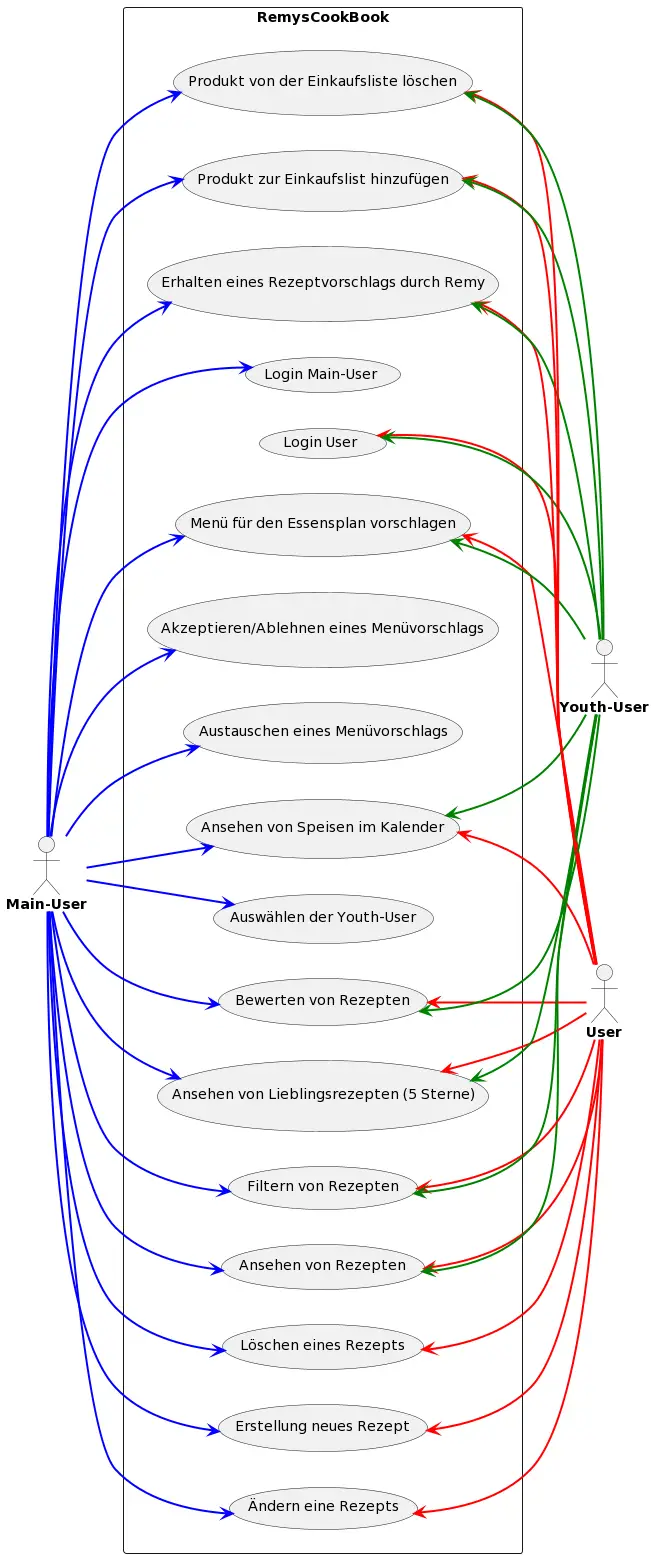
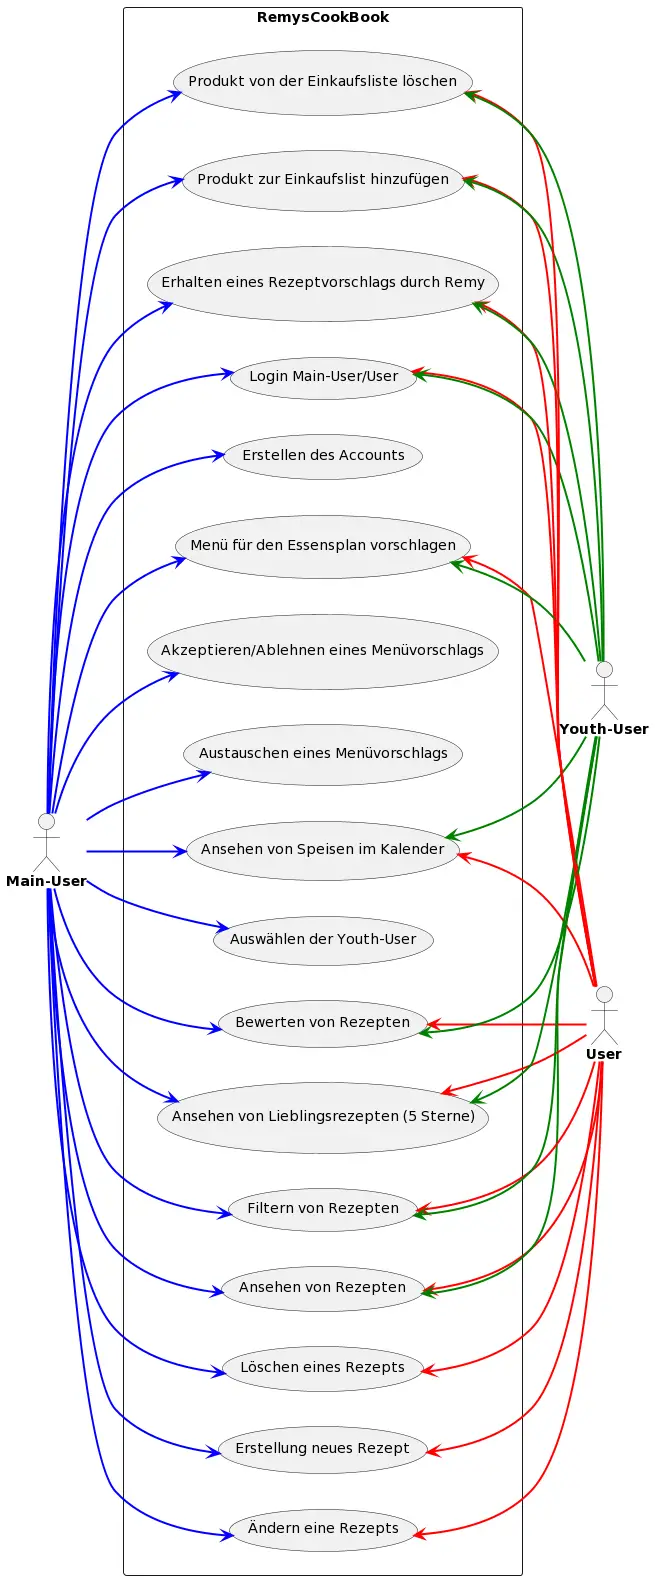
revised UCD, Zielsetzung, UC 1 & 2

diff --git a/README.md b/README.md
@@ -67,17 +67,30 @@ Die Anwendung enthält außerdem ein Maskottchen, das die Benutzer durch die App
 - **Youth-User:** 
   Er besitzt die generellen Rechte ausgenommen der Erstellung, das Ändern und Löschen eines Rezepts.
   
-### 2.2. Use Case Account-Erstellung
+### 2.2. Use Case Erstellen des Accounts
 
 #### 2.2.1 GUI-Design
 
-<img src="./pictures/Account-Erstellung1.png" width="200" height="375"> <img src="./pictures/Account-Erstellung2.png" width="200" height="375">
+<img src="./pictures/01_CreateAccount.png" width="190" height="375"> <img src="./pictures/02_CreateAccount.png" width="190" height="375">
 
-Hierbei handelt es sich um ein Login-System, wo die Fam-ID als Schlüssel zum Einsteigen in den Essensplan verwendet wird. Sollte noch kein Account bestehen, wird der Main-User aufgefordert einen Benutzernamen, Passwort sowie eine Fam-ID einzugeben. Weitere Benutzer können mit der festgelegten Fam-ID in den Essensplan einsteigen. 
+Zuerst wird nach einem Benutzernamen sowie Passwort gefragt. Ist die Eingabe gültig, wird die Fam-ID, eine 16-stellige Hexadezimal-Nummer, vom  System erzeugt. Die Person, die den Account erstellt, wird automatisch als Main-User angesehen. Es gibt nur einen Main-User und er kann auch nicht auf ein anderes Mitglied geändert werden. Weitere Benutzer können mit der festgelegten Fam-ID in den Essensplan einsteigen (genauers dazu in dem UC Login Main-User/User). 
 
 #### 2.2.2 Workflow
 
-- Bei jeder Eingabe wird das Format auf Gültigkeit und die Existenz überprüft.
+- **TODO**
+
+### 2.3. Use Case Login Main-User/User
+
+#### 2.3.1 GUI-Design
+
+<img src="./pictures/Login_Users.png" width="200" height="375">
+
+
+Hierbei handelt es sich um ein Login-System, wo die automatisch generierte Fam-ID als Schlüssel zum Einsteigen in den Essensplan verwendet wird. Sollte ein Benutzer zum ersten Mal in den Essensplan einsteigen, erkennt das System dies und erstellt einen neuen Benutzer.
+
+#### 2.3.2 Workflow
+
+- **TODO**
 
 <img src="./pictures/signUp.png">
 
